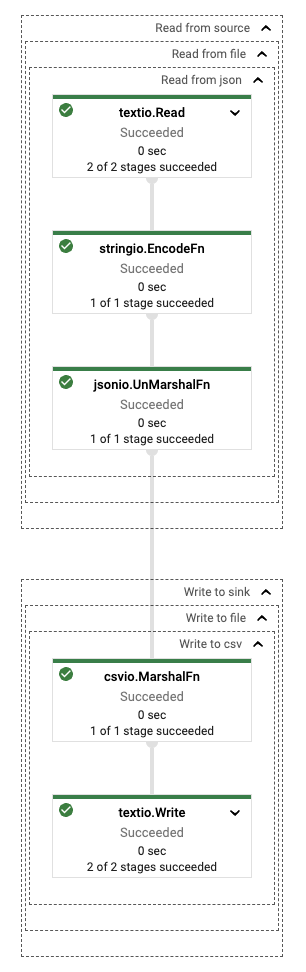
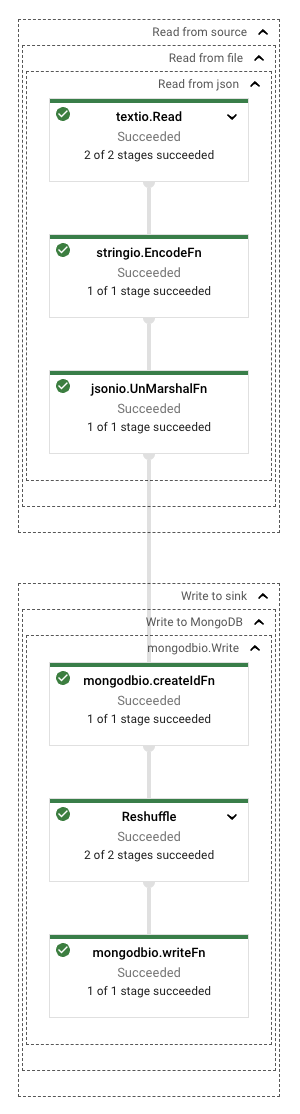
Update readme with MongoDB sink

Changed region(s): [[0.06, 0.0, 0.96, 0.9877], [0.15, 0.5247, 0.87, 0.9259], [0.84, 0.5556, 0.87, 0.5864]]

diff --git a/README.md b/README.md
@@ -22,12 +22,13 @@ Supported sinks:
 
 - BigQuery
 - Cloud Storage (avro, csv, json, parquet)
-- Cloud SQL (MySQL, PostgreSQL
+- Cloud SQL (MySQL, PostgreSQL)
 - Elasticsearch
 - Firestore
 - Memorystore (Redis)
+- MongoDB
 
-The image below shows a Dataflow pipeline that reads from Cloud Storage (json) and writes to Cloud Storage (csv).
+The image below shows a Dataflow pipeline that reads from Cloud Storage (json) and writes to MongoDB Atlas.
 
 ![Dataflow pipeline](images/dataflow.png)
 
